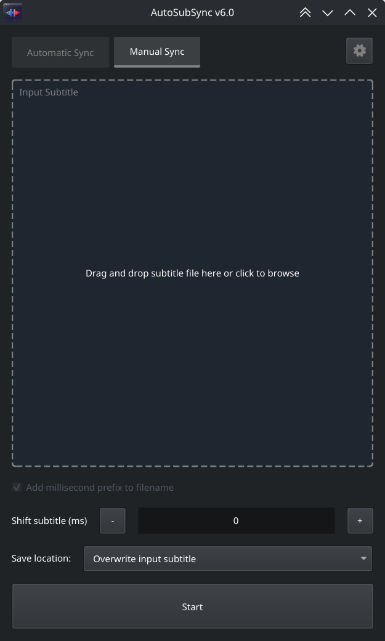
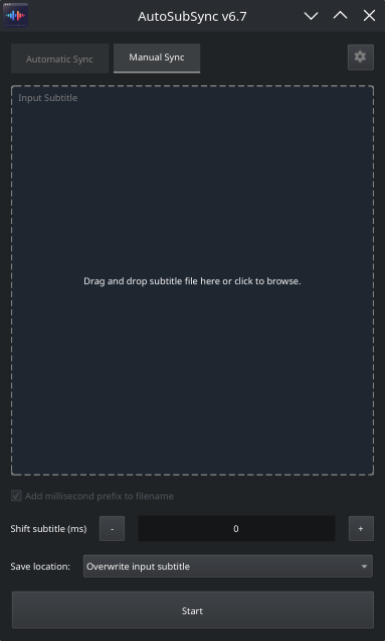
v6.7

diff --git a/generate_screenshots.py b/generate_screenshots.py
@@ -1,0 +1,363 @@
+#!/usr/bin/env python3
+"""Generate AutoSubSync screenshots at the same resolution as the README images.
+
+Creates temporary fake movie and subtitle files, populates Batch mode and the
+Sync Log view (and optionally Normal mode), and captures the active window
+including its OS title bar using KDE Spectacle (or Qt widget grab in offscreen
+mode) before scaling to 385x641 in ``images/``.
+"""
+
+import argparse
+import os
+import shutil
+import subprocess
+import sys
+import tempfile
+import time
+from unittest.mock import patch
+
+REPO_ROOT = os.path.dirname(os.path.abspath(__file__))
+MAIN_DIR = os.path.join(REPO_ROOT, "main")
+if MAIN_DIR not in sys.path:
+    sys.path.insert(0, MAIN_DIR)
+
+TARGET_WIDTH = 385
+TARGET_HEIGHT = 641
+
+FAKE_MOVIES = [
+    (
+        "Velvet Pendulum (2089)",
+        "Velvet.Pendulum.2089.2160p.WEB-DL.DV.HDR.DDP5.1.HEVC.mkv",
+        "Velvet.Pendulum.2089.2160p.WEB-DL.DV.HDR.DDP5.1.HEVC.en.srt",
+    ),
+    (
+        "Glass Astrolabe (2074)",
+        "Glass.Astrolabe.2074.1080p.BluRay.REMUX.AVC.DTS-HD.MA.7.1.mkv",
+        "Glass.Astrolabe.2074.1080p.BluRay.REMUX.AVC.DTS-HD.MA.7.1.en.srt",
+    ),
+    (
+        "Cinder Cartographer (2091)",
+        "Cinder.Cartographer.2091.2160p.BluRay.x265.10bit.HDR.DTS-HD.MA.mkv",
+        "Cinder.Cartographer.2091.2160p.BluRay.x265.10bit.HDR.DTS-HD.MA.en.srt",
+    ),
+    (
+        "Saffron Monolith (2083)",
+        "Saffron.Monolith.2083.2160p.UHD.BluRay.HEVC.TrueHD.7.1.Atmos.mkv",
+        "Saffron.Monolith.2083.2160p.UHD.BluRay.HEVC.TrueHD.7.1.Atmos.en.srt",
+    ),
+    (
+        "Copper Starlight (2096)",
+        "Copper.Starlight.2096.1080p.BluRay.AVC.DTS-HD.MA.5.1.mkv",
+        "Copper.Starlight.2096.1080p.BluRay.AVC.DTS-HD.MA.5.1.en.srt",
+    ),
+    (
+        "Hollow Meridian (2085)",
+        "Hollow.Meridian.2085.1080p.WEB-DL.H264.DDP5.1.mkv",
+        "Hollow.Meridian.2085.1080p.WEB-DL.H264.DDP5.1.en.srt",
+    ),
+]
+
+
+def _create_fake_media(temp_dir):
+    """Create temporary fake video and subtitle files and return (video, sub) pairs."""
+    pairs = []
+    for folder_name, video_name, sub_name in FAKE_MOVIES:
+        movie_dir = os.path.join(temp_dir, "Movies", folder_name)
+        os.makedirs(movie_dir, exist_ok=True)
+        video_path = os.path.join(movie_dir, video_name)
+        sub_path = os.path.join(movie_dir, sub_name)
+        with open(video_path, "wb") as fh:
+            fh.write(b"FAKE_VIDEO_DATA")
+        with open(sub_path, "w", encoding="utf-8") as fh:
+            fh.write("1\n00:00:01,000 --> 00:00:03,000\nSample subtitle line.\n")
+        pairs.append((video_path, sub_path))
+    return pairs
+
+
+def _trim_transparent_shadow(image):
+    """Crop outer fully/mostly transparent window-shadow border from a QImage."""
+    from PyQt6.QtCore import QRect
+
+    if not image.hasAlphaChannel():
+        return image
+
+    w, h = image.width(), image.height()
+    min_x, min_y, max_x, max_y = w, h, -1, -1
+    for y in range(h):
+        for x in range(w):
+            if (image.pixel(x, y) >> 24) >= 240:
+                if x < min_x:
+                    min_x = x
+                if x > max_x:
+                    max_x = x
+                if y < min_y:
+                    min_y = y
+                if y > max_y:
+                    max_y = y
+
+    if max_x >= min_x and max_y >= min_y:
+        # Inset by 2px to strip KDE Breeze's 1px light outer window border
+        inset = 2 if (max_x - min_x > 20 and max_y - min_y > 20) else 0
+        return image.copy(
+            QRect(
+                min_x + inset,
+                min_y + inset,
+                max_x - min_x + 1 - 2 * inset,
+                max_y - min_y + 1 - 2 * inset,
+            )
+        )
+    return image
+
+
+def _capture_window(
+    app,
+    widget,
+    output_path,
+    temp_dir,
+    use_spectacle=True,
+    width=TARGET_WIDTH,
+    height=TARGET_HEIGHT,
+):
+    """Capture the active window (including OS title bar when available) and scale."""
+    from PyQt6.QtCore import Qt
+    from PyQt6.QtGui import QImage
+
+    widget.raise_()
+    widget.activateWindow()
+    for _ in range(5):
+        app.processEvents()
+        time.sleep(0.05)
+
+    if use_spectacle and shutil.which("spectacle"):
+        raw_path = os.path.join(temp_dir, "raw_capture.png")
+        subprocess.run(
+            ["spectacle", "-b", "-n", "-a", "-o", raw_path],
+            check=True,
+        )
+        image = QImage(raw_path)
+        image = _trim_transparent_shadow(image)
+        os.remove(raw_path)
+    else:
+        image = widget.grab().toImage()
+
+    if image.width() != width or image.height() != height:
+        image = image.scaled(
+            width,
+            height,
+            Qt.AspectRatioMode.IgnoreAspectRatio,
+            Qt.TransformationMode.SmoothTransformation,
+        )
+    image.save(output_path, "PNG")
+
+
+def _populate_fake_sync_log(app, win):
+    """Populate the Sync Log view with realistic fake movie sync progress."""
+    from constants import COLORS
+
+    win.show_log_window()
+    log = win.log_window
+    log.reset_for_new_sync()
+    log.cancel_button.setVisible(True)
+    log.cancel_button.setEnabled(True)
+
+    f1, v1_name, s1_name = FAKE_MOVIES[0]
+    f2, v2_name, s2_name = FAKE_MOVIES[1]
+    base = "/home/user/Movies"
+    v1 = f"{base}/{f1}/{v1_name}"
+    s1 = f"{base}/{f1}/{s1_name}"
+    out1 = f"/home/user/Desktop/{s1_name.replace('.en.srt', '_synced.en.srt')}"
+    v2 = f"{base}/{f2}/{v2_name}"
+    s2 = f"{base}/{f2}/{s2_name}"
+
+    log.append_message("Processing pair [1/5]", bold=True, color=COLORS["BLUE"])
+    log.append_message("Reference: ", end="")
+    log.append_message(v1, color=COLORS["GREY"])
+    log.append_message("Subtitle: ", end="")
+    log.append_message(s1, color=COLORS["GREY"])
+    log.append_message("")
+    log.append_message(
+        f"INFO     extracting speech segments from reference '{v1}'..."
+    )
+    log.append_message("INFO     Checking video for subtitles stream...")
+    log.append_message("INFO     detected encoding: UTF-8")
+    log.append_message("INFO     ...success!")
+    log.append_message("INFO     ...done")
+    log.append_message(
+        f"INFO     extracting speech segments from subtitles file(s) ['{s1}']..."
+    )
+    log.append_message("INFO     detected encoding: UTF-8")
+    log.append_message("INFO     computing alignments...")
+    log.append_message("INFO     ...done")
+    log.append_message("INFO     score: 204816.000")
+    log.append_message("INFO     offset seconds: 1.420")
+    log.append_message("INFO     framerate scale factor: 1.000")
+    log.append_message(f"INFO     writing output to {out1}")
+    log.append_message("")
+    log.append_message("Synchronization completed successfully.", bold=True, color=COLORS["GREEN"])
+    log.append_message(f"Saved to: {out1}", color=COLORS["GREY"])
+    log.append_message("")
+    log.append_message("Processing pair [2/5]", bold=True, color=COLORS["BLUE"])
+    log.append_message("Reference: ", end="")
+    log.append_message(v2, color=COLORS["GREY"])
+    log.append_message("Subtitle: ", end="")
+    log.append_message(s2, color=COLORS["GREY"])
+    log.append_message("")
+    log.append_message(
+        f"INFO     extracting speech segments from reference '{v2}'..."
+    )
+    log.append_message("INFO     Checking video for subtitles stream...")
+    log.append_message("INFO     detected encoding: UTF-8")
+    log.append_message("INFO     ...success!")
+    log.append_message("INFO     ...done")
+    log.append_message(
+        f"INFO     extracting speech segments from subtitles file(s) ['{s2}']..."
+    )
+    log.append_message("INFO     detected encoding: UTF-8")
+    log.append_message("INFO     computing alignments...")
+    log.update_progress(40, 2, 5)
+
+    app.processEvents()
+    sb = log.log_text.verticalScrollBar()
+    sb.setValue(sb.maximum())
+    app.processEvents()
+
+
+def generate_screenshots(output_dir, offscreen=False, populate_normal=False):
+    """Launch the AutoSubSync GUI and capture screenshots into output_dir."""
+    if offscreen:
+        os.environ["QT_QPA_PLATFORM"] = "offscreen"
+    # Render Qt widgets natively near TARGET_WIDTH (500 * 0.77 = 385) for sharp text
+    os.environ.setdefault("QT_SCALE_FACTOR", "0.77")
+
+    from PyQt6.QtWidgets import QApplication
+
+    import gui
+    import utils as app_utils
+    from gui_automatic_tab import attach_functions_to_autosubsyncapp as attach_auto
+    from gui_batch_mode import attach_functions_to_autosubsyncapp as attach_batch
+    from gui_manual_tab import attach_functions_to_autosubsyncapp as attach_manual
+
+    attach_auto(gui.autosubsyncapp)
+    attach_manual(gui.autosubsyncapp)
+    attach_batch(gui.autosubsyncapp)
+
+    os.makedirs(output_dir, exist_ok=True)
+    temp_dir = tempfile.mkdtemp(prefix="AutoSubSync-screenshots-")
+    cfg_dir = os.path.join(temp_dir, "cfg")
+    os.makedirs(cfg_dir, exist_ok=True)
+
+    app = QApplication.instance() or QApplication(sys.argv)
+    fake_pairs = _create_fake_media(temp_dir)
+    default_cfg = {
+        "batch_mode": False,
+        "check_updates_startup": False,
+        "always_on_top": False,
+        "automatic_save_location": "save_to_desktop",
+        "manual_save_location": "overwrite_input_subtitle",
+    }
+    use_spectacle = not offscreen and bool(
+        os.environ.get("DISPLAY") or os.environ.get("WAYLAND_DISPLAY")
+    )
+
+    try:
+        app_utils.clear_config_cache()
+        with (
+            patch("gui.check_for_updates_startup"),
+            patch("gui.check_for_lapse_updates_startup"),
+            patch("utils.initialize_static_ffmpeg"),
+            patch.object(
+                app_utils,
+                "get_user_config_path",
+                return_value=os.path.join(cfg_dir, "config.json"),
+            ),
+            patch.object(app_utils, "load_config", return_value=dict(default_cfg)),
+            patch("gui.load_config", return_value=dict(default_cfg)),
+        ):
+            win = gui.autosubsyncapp()
+            win.show()
+            app.processEvents()
+
+            # 1. Normal mode (Automatic Sync) - empty by default (or populated if requested)
+            if populate_normal:
+                first_video, first_sub = fake_pairs[0]
+                win.video_ref_input.set_file(first_video)
+                win.subtitle_input.set_file(first_sub)
+            _capture_window(
+                app,
+                win,
+                os.path.join(output_dir, "AutoSubSync1.png"),
+                temp_dir,
+                use_spectacle=use_spectacle,
+            )
+
+            # 2. Manual Sync tab
+            win.tab_widget.setCurrentIndex(1)
+            _capture_window(
+                app,
+                win,
+                os.path.join(output_dir, "AutoSubSync2.png"),
+                temp_dir,
+                use_spectacle=use_spectacle,
+            )
+
+            # 3. Batch mode populated with fake movie & subtitle pairs
+            win.tab_widget.setCurrentIndex(0)
+            win.toggle_batch_mode()
+            for video_path, sub_path in fake_pairs:
+                win.batch_tree_view.add_explicit_pair(video_path, sub_path)
+            _capture_window(
+                app,
+                win,
+                os.path.join(output_dir, "AutoSubSync3.png"),
+                temp_dir,
+                use_spectacle=use_spectacle,
+            )
+
+            # 4. Processing / Sync Log view
+            _populate_fake_sync_log(app, win)
+            _capture_window(
+                app,
+                win,
+                os.path.join(output_dir, "AutoSubSync4.png"),
+                temp_dir,
+                use_spectacle=use_spectacle,
+            )
+
+            win.close()
+            win.deleteLater()
+            app.processEvents()
+    finally:
+        shutil.rmtree(temp_dir, ignore_errors=True)
+
+
+def main():
+    parser = argparse.ArgumentParser(
+        description="Generate AutoSubSync screenshots (385x641) replacing images/AutoSubSync*.png."
+    )
+    parser.add_argument(
+        "-o",
+        "--output",
+        default=os.path.join(REPO_ROOT, "images"),
+        help="Output directory for generated PNGs (default: images)",
+    )
+    parser.add_argument(
+        "--offscreen",
+        action="store_true",
+        help="Render in Qt offscreen mode (no OS window title bar)",
+    )
+    parser.add_argument(
+        "--populate-normal",
+        action="store_true",
+        help="Also load a fake movie and subtitle into Normal mode for AutoSubSync1.png",
+    )
+    args = parser.parse_args()
+    generate_screenshots(
+        args.output,
+        offscreen=args.offscreen,
+        populate_normal=args.populate_normal,
+    )
+    print(f"Screenshots saved to {args.output}")
+
+
+if __name__ == "__main__":
+    main()
